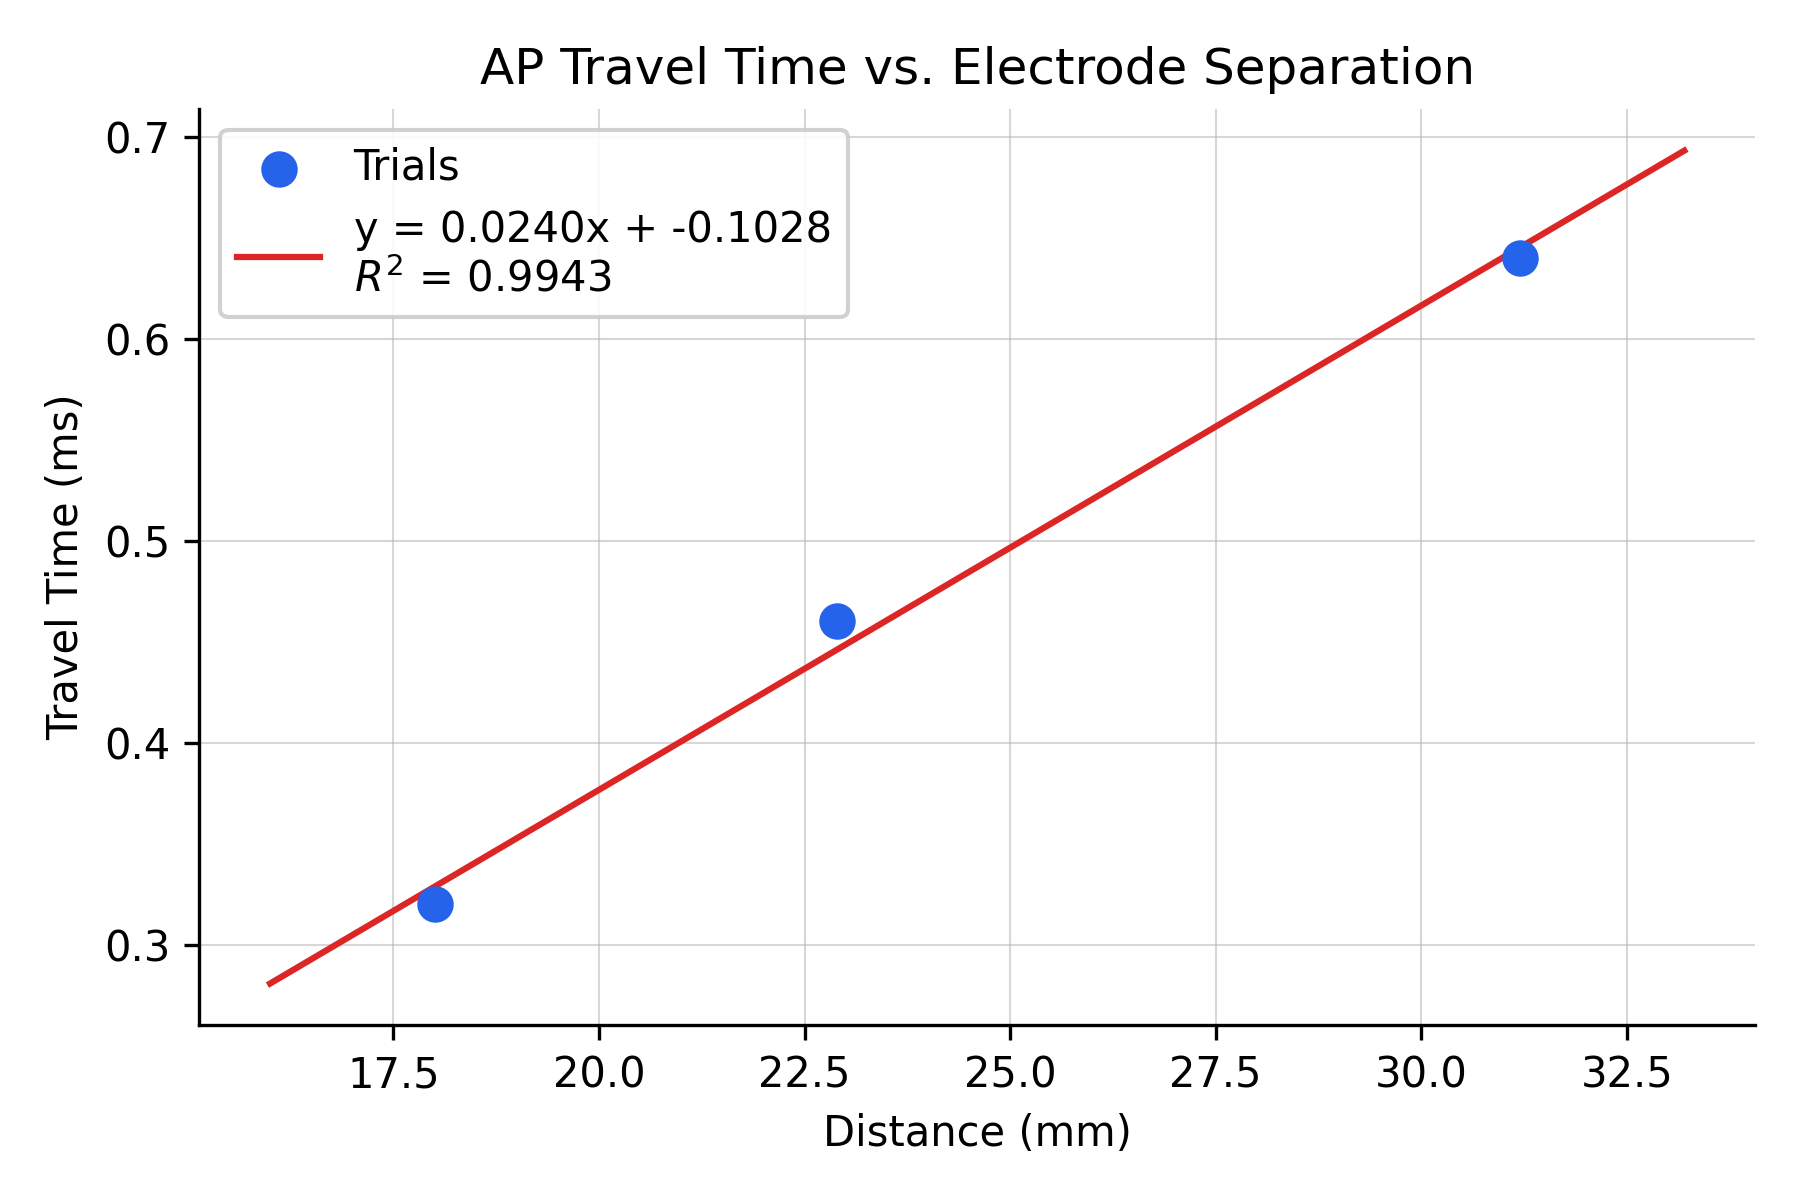
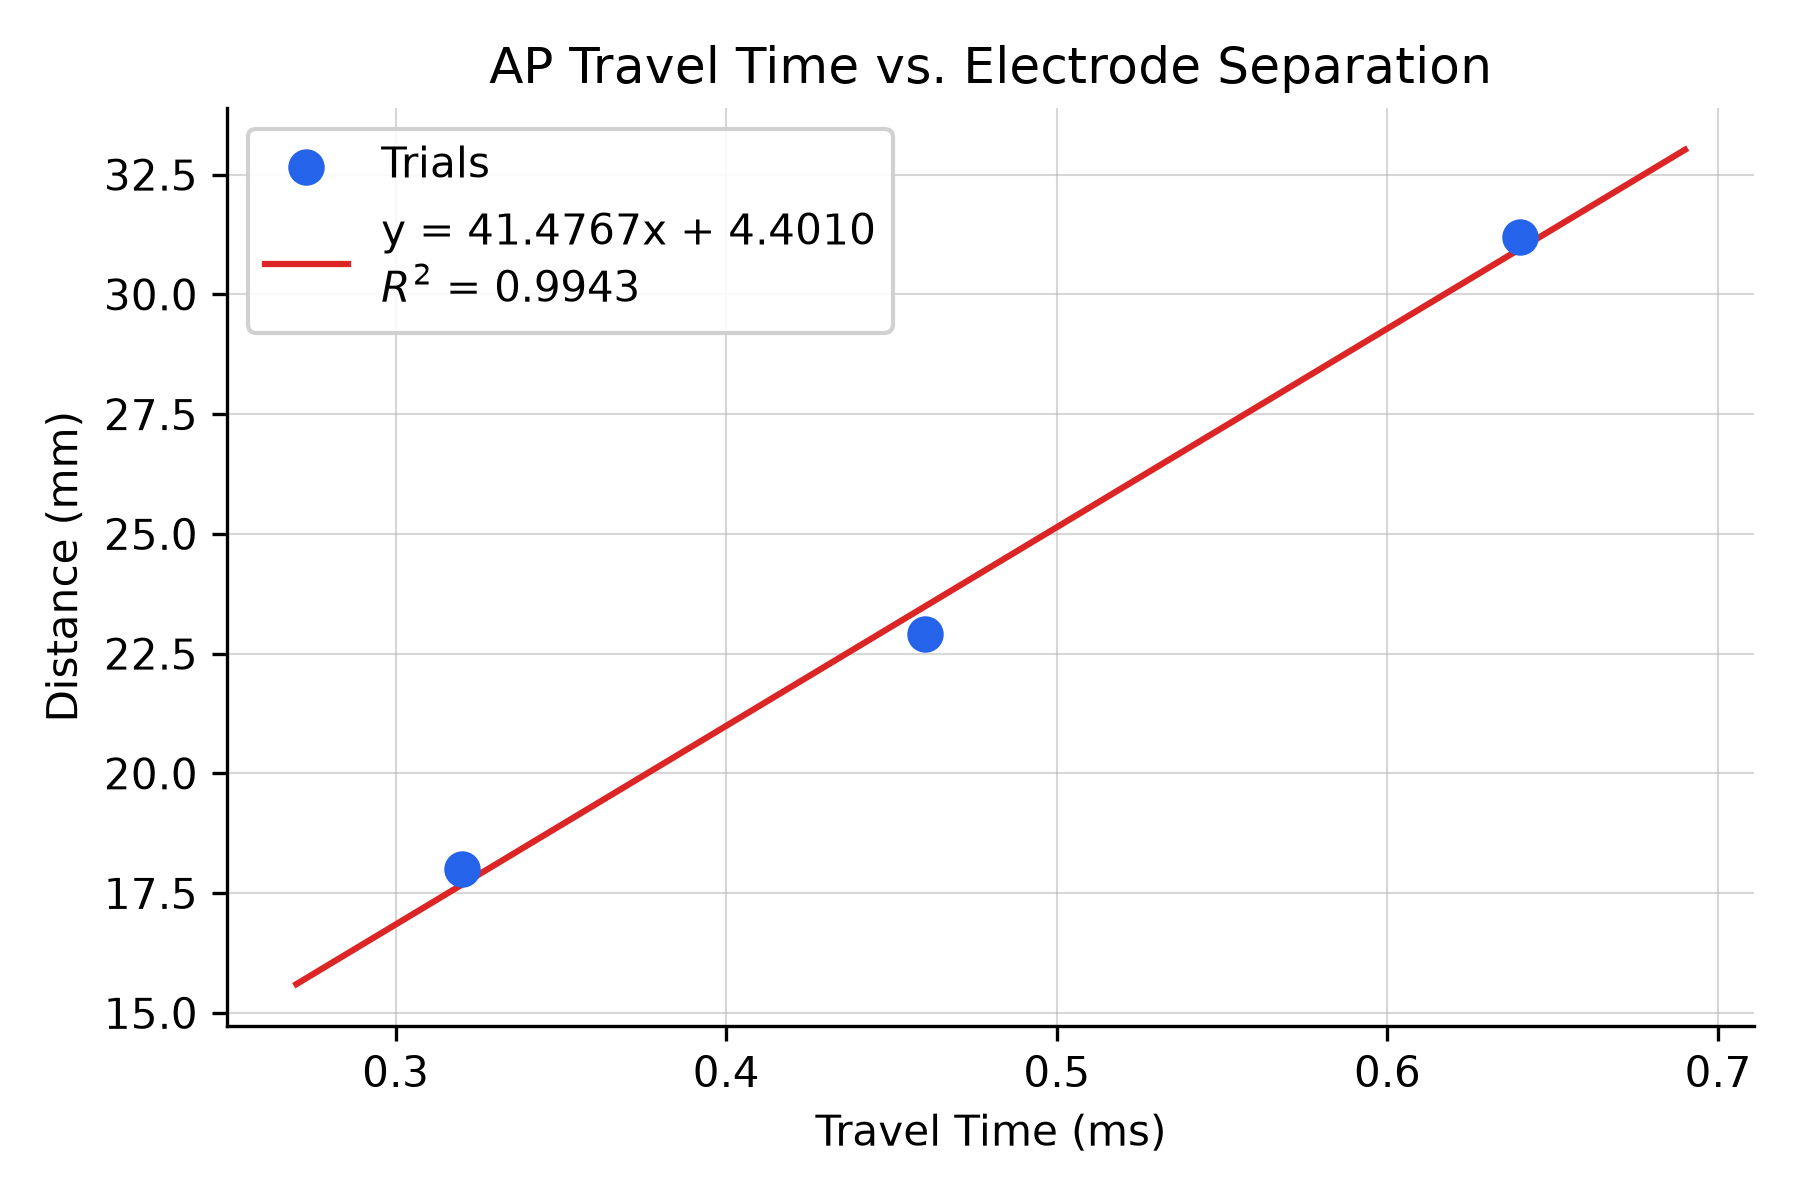
Added travel time chart for 1 set of trials

diff --git a/NCV.py b/NCV.py
@@ -152,23 +152,23 @@ def plot_travel_time_vs_distance():
     distances = np.array(distances)
     travel_times = np.array(travel_times)
 
-    slope, intercept = np.polyfit(distances, travel_times, 1)
-    fit_line = slope * distances + intercept
-    ss_res = np.sum((travel_times - fit_line) ** 2)
-    ss_tot = np.sum((travel_times - travel_times.mean()) ** 2)
+    slope, intercept = np.polyfit(travel_times, distances, 1)
+    fit_line = slope * travel_times + intercept
+    ss_res = np.sum((distances - fit_line) ** 2)
+    ss_tot = np.sum((distances - distances.mean()) ** 2)
     r2 = 1 - ss_res / ss_tot
 
-    x_range = np.linspace(distances.min() - 2, distances.max() + 2, 200)
+    x_range = np.linspace(travel_times.min() - 0.05, travel_times.max() + 0.05, 200)
 
     _, ax = plt.subplots(figsize=(6, 4))
 
-    ax.scatter(distances, travel_times, color="#2563EB", s=60, zorder=3,
+    ax.scatter(travel_times, distances, color="#2563EB", s=60, zorder=3,
                label="Trials")
     ax.plot(x_range, slope * x_range + intercept, color="#DC2626", linewidth=1.5,
             label=f"y = {slope:.4f}x + {intercept:.4f}\n$R^2$ = {r2:.4f}")
 
-    ax.set_xlabel("Distance (mm)")
-    ax.set_ylabel("Travel Time (ms)")
+    ax.set_xlabel("Travel Time (ms)")
+    ax.set_ylabel("Distance (mm)")
     ax.set_title("AP Travel Time vs. Electrode Separation")
     ax.legend(framealpha=0.9)
     ax.grid(True, linewidth=0.5, alpha=0.5)
